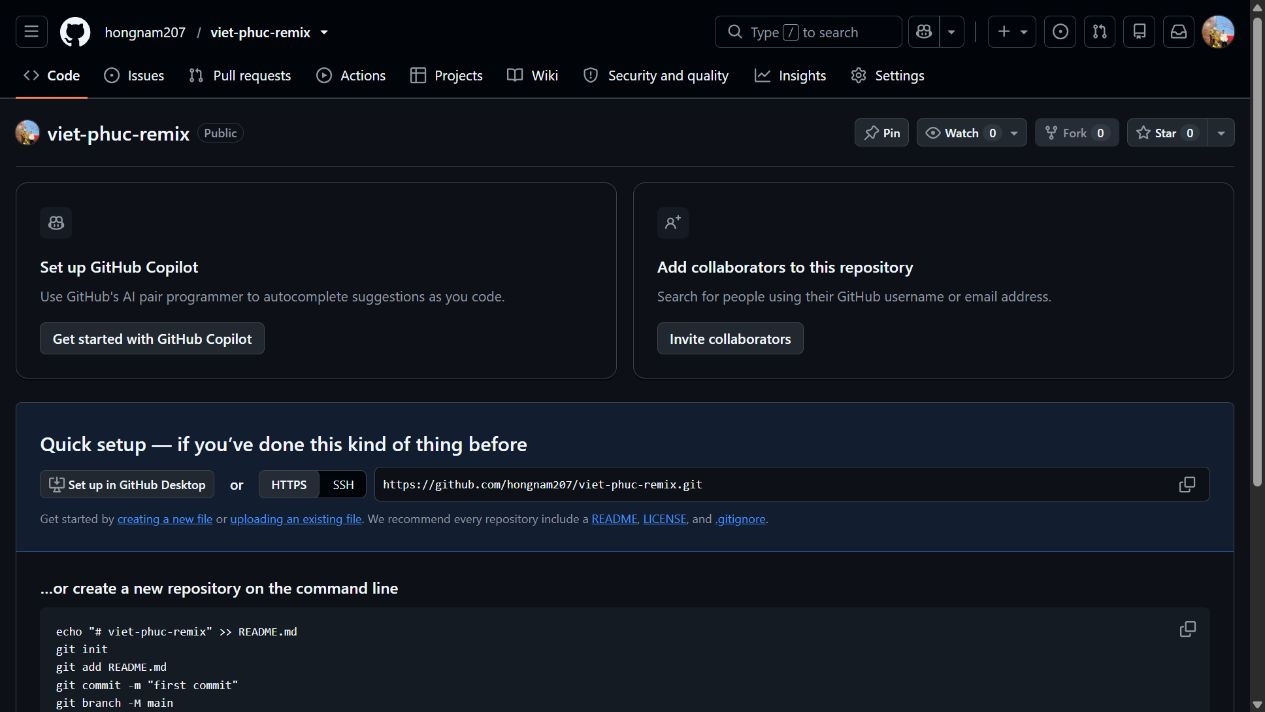
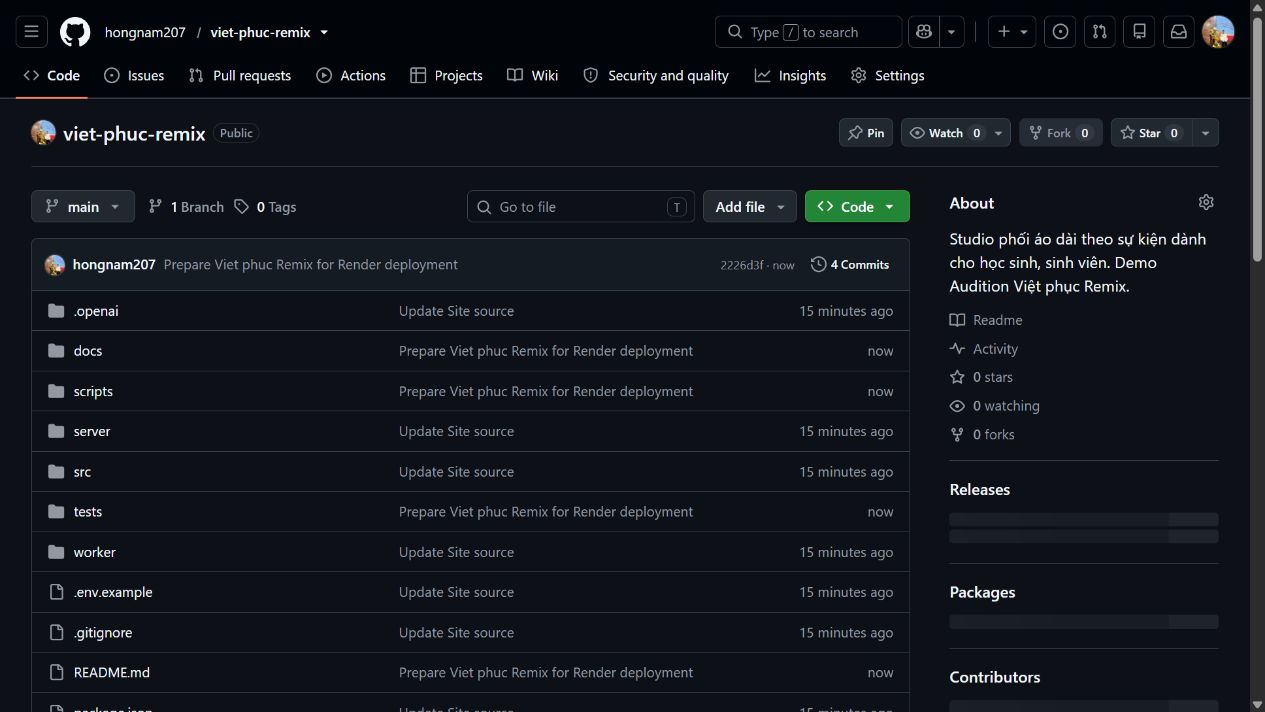
Document live Render deployment and submission links

diff --git a/docs/ho-so-du-thi.md b/docs/ho-so-du-thi.md
@@ -42,7 +42,7 @@ Luồng xử lý: người dùng chọn → chuẩn hóa trạng thái → cập
 
 Lookbook sử dụng localStorage của trình duyệt. Liên kết chia sẻ chứa trạng thái phối đồ trong query string; người mở nhận lại đúng các lựa chọn hợp lệ. Nút tải xuất SVG độc lập. Dữ liệu không được đồng bộ giữa thiết bị.
 
-Máy chủ local chạy bằng Node.js; bản đóng gói là một Cloudflare Worker ESM chứa giao diện và API để triển khai trên Sites. Khóa Gemini chỉ đọc từ biến môi trường máy chủ. API kiểm tra phương thức, nguồn yêu cầu và giới hạn độ dài đầu vào, có timeout; giao diện đưa nội dung AI vào textContent. Chính sách bảo mật nội dung hạn chế script và kết nối từ client về cùng nguồn.
+Máy chủ Node.js chạy trên Render (vùng Singapore, gói Free); đọc PORT và RENDER_EXTERNAL_URL của nền tảng. Giao diện và API được đóng gói vào một module dùng chung; bản Cloudflare Worker ESM trên Sites vẫn là phương án triển khai bổ sung. Khóa Gemini chỉ đọc từ biến môi trường máy chủ. API kiểm tra phương thức, nguồn yêu cầu và giới hạn độ dài đầu vào, có timeout; giao diện đưa nội dung AI vào textContent. Chính sách bảo mật nội dung hạn chế script và kết nối từ client về cùng nguồn.
 
 Đã có kiểm thử tự động cho chuẩn hóa dữ liệu, các tổ hợp sự kiện/màu/kiểu áo, lưu ý bối cảnh, prompt, schema và xử lý lỗi API. Nhánh Gemini thành công được kiểm thử bằng phản hồi giả lập. Chưa xác minh cuộc gọi Gemini thực tế do chưa có khóa API. Trước vận hành rộng cần bổ sung hạn mức bền vững phía máy chủ và giám sát chi phí.
 
@@ -72,17 +72,17 @@ Prompt được chia theo nhiệm vụ, ràng buộc và dữ liệu. Phần nhi
 
 ### URL video giới thiệu
 
-https://viet-phuc-remix-arena.t-rue0802370923999.chatgpt.site/video Video được dựng từ ảnh chụp các trạng thái thực của demo, có chú thích, không có lời thoại. Không phải bản ghi thao tác liên tục.
+https://viet-phuc-remix.onrender.com/video Video được dựng từ ảnh chụp các trạng thái thực của demo, có chú thích, không có lời thoại. Không phải bản ghi thao tác liên tục.
 
 ### URL demo
 
-https://viet-phuc-remix-arena.t-rue0802370923999.chatgpt.site
+https://viet-phuc-remix.onrender.com
 
 Demo đã triển khai công khai thành công và được kiểm tra bằng trình duyệt ngày 10/10/2026.
 
 ### URL repository
 
-Chưa có repository GitHub do đội cung cấp. Mã nguồn hoàn chỉnh ở thư mục dự án và được đồng bộ vào kho nguồn Sites khi xuất bản. Cần repository truy cập được với ban giám khảo; không dùng liên kết ZIP thay cho repository nếu đề thi yêu cầu kho mã nguồn.
+https://github.com/hongnam207/viet-phuc-remix — repository công khai, chứa mã nguồn, cấu hình Render, kiểm thử và tài liệu.
 
 ### URL chia sẻ cuộc trò chuyện với Gemini
 
@@ -96,5 +96,7 @@ Chưa có. Đội cần thực hiện cuộc trò chuyện thực tế trên Gem
 
 - Vietnam Tourism: https://www.vietnam.travel/vi/things-to-do/all-about-ao-dai-vietnams-national-dress
 - Google AI for Developers, structured output: https://ai.google.dev/gemini-api/docs/generate-content/structured-output
+
+
 
 

diff --git a/docs/checklist-nop-bai.md b/docs/checklist-nop-bai.md
@@ -4,11 +4,11 @@
 - [x] Mockup SVG, thông tin văn hóa và nguồn.
 - [x] Lưu lookbook, so sánh, tải mockup, chia sẻ URL.
 - [x] API Gemini, kiểm tra schema và gợi ý dự phòng.
-- [x] Kiểm thử tự động: 9/9 đạt; kiểm tra giao diện desktop và mobile.
+- [x] Kiểm thử tự động: 10/10 đạt; kiểm tra giao diện desktop và mobile.
 - [x] Soạn đầy đủ 7 trường mô tả trong form, đúng giới hạn ký tự.
 - [x] Demo và video đã xuất bản công khai; video tải được, dài 60 giây.
 - [ ] Cấu hình khóa Gemini, gọi mô hình thật, lưu minh chứng.
-- [ ] Cung cấp repository GitHub truy cập được.
+- [x] Repository công khai: https://github.com/hongnam207/viet-phuc-remix
 - [ ] Tạo cuộc trò chuyện Gemini thật và lấy liên kết chia sẻ.
 - [ ] Đội rà soát thông tin, cam kết và 4 liên kết; nộp trước 23:59:59 ngày 10/10/2026 (giờ Việt Nam).
 
@@ -19,5 +19,7 @@ Không nộp những dòng “chưa có” vào các trường URL bắt buộc.
 “Chúng tôi xây dựng Việt phục Remix cho học sinh, sinh viên, phạm vi áo dài hiện đại và cách tân. Hãy phản biện luồng chọn sự kiện → màu → phụ kiện → mockup → thông tin văn hóa. Phân biệt khuyến nghị thẩm mỹ với thông tin lịch sử cần dẫn nguồn; không bịa tư liệu. Đề xuất ca kiểm thử cho màu đỏ khi dự cưới, sneaker khi dự nghi lễ và kỷ yếu theo quy định trường. Sau đó giúp rút gọn prompt trả JSON title, description, tips.”
 
 Đội nên trao đổi tiếp dựa trên mã thực và kết quả thử nghiệm, rồi chia sẻ đúng cuộc trò chuyện đó.
+
+
 
 

diff --git a/docs/deploy-render.md b/docs/deploy-render.md
@@ -13,4 +13,5 @@ Máy chủ dùng `RENDER_EXTERNAL_URL` do Render cấp để kiểm tra Origin c
 
 Nguồn: https://render.com/docs/deploy-node-express-app và https://render.com/docs/blueprint-spec
 
-Chưa có URL Render được xác minh cho đến khi tài khoản Render được kết nối và repository được cung cấp.
+Đã triển khai và xác minh Live ngày 10/10/2026: https://viet-phuc-remix.onrender.com. Repository: https://github.com/hongnam207/viet-phuc-remix. Service ID: srv-db56nhnavr4c73flca20. Video: https://viet-phuc-remix.onrender.com/video. Chưa cấu hình GEMINI_API_KEY, gợi ý biên tập hoạt động và có nhãn rõ. Gói Free có thể khởi động chậm sau thời gian không truy cập.
+

diff --git a/docs/kiem-thu.md b/docs/kiem-thu.md
@@ -12,3 +12,6 @@ Ngày: 10/10/2026. Môi trường local Node.js, trình duyệt Codex.
 
 Ảnh minh chứng trong `docs/evidence/`. Chưa kiểm tra Gemini qua mạng bằng khóa thật; chưa có đánh giá chuyên gia văn hóa hoặc người dùng đại diện.
 
+
+Triển khai Render ngày 10/10/2026: trạng thái Live, health 200, API 200 với Origin HTTPS của Render, video range 206. Đã kiểm tra thay màu và nhấn gợi ý từ trình duyệt trên URL thật. Tổng kiểm thử tự động hiện tại: 10/10 đạt (thêm kiểm thử máy chủ Render).
+

diff --git a/README.md b/README.md
@@ -33,3 +33,8 @@ Nguồn văn hóa: https://www.vietnam.travel/vi/things-to-do/all-about-ao-dai-v
 Nguồn kỹ thuật: https://ai.google.dev/gemini-api/docs/structured-output
 
 Các cảnh báo là khuyến nghị của sản phẩm, không phải kết luận đúng/sai văn hóa. Cần người thực hành văn hóa rà soát trước khi mở rộng sang ngũ thân, tứ thân hoặc phục dựng theo địa phương.
+
+Demo: https://viet-phuc-remix.onrender.com
+Video: https://viet-phuc-remix.onrender.com/video
+Repository: https://github.com/hongnam207/viet-phuc-remix
+
